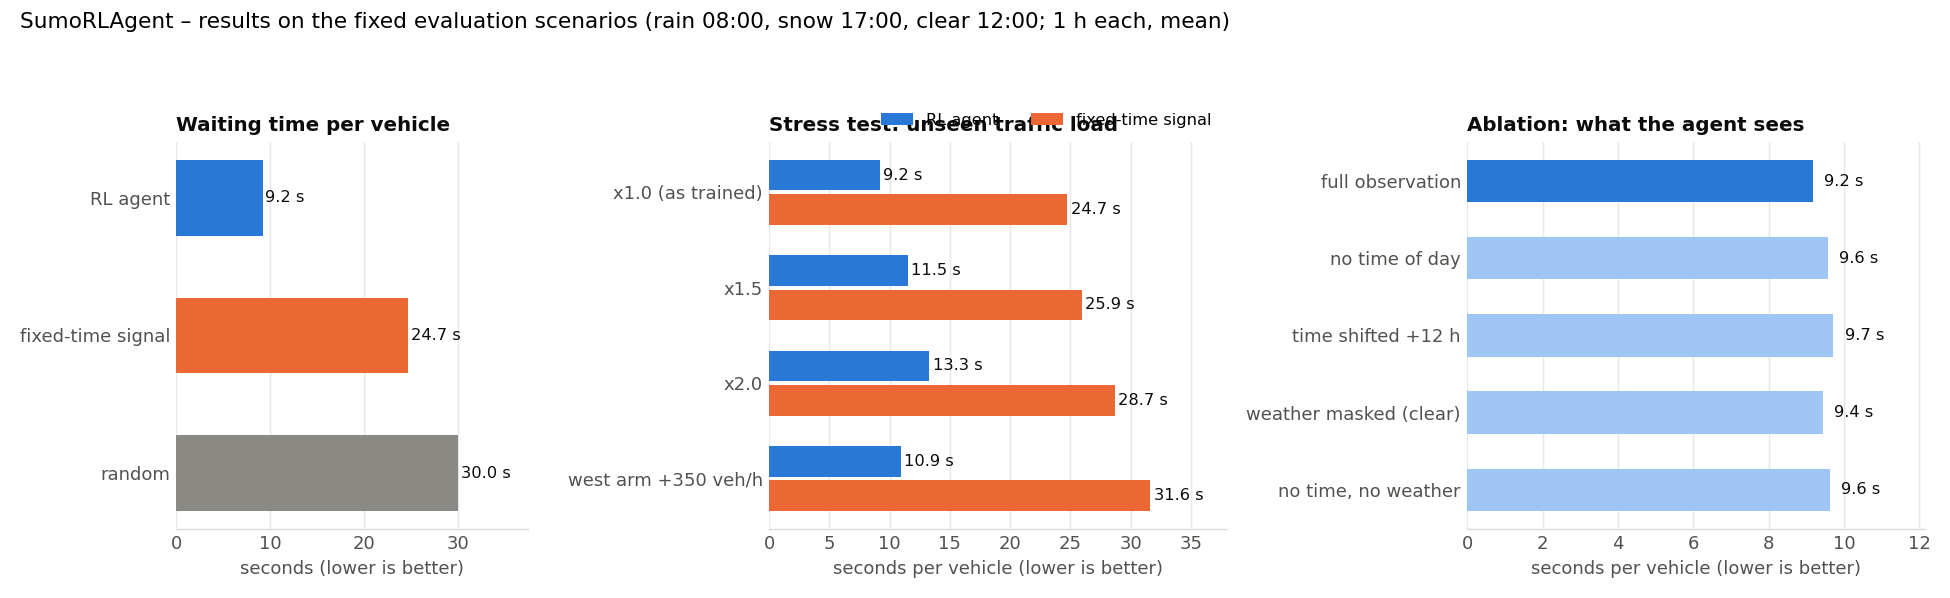
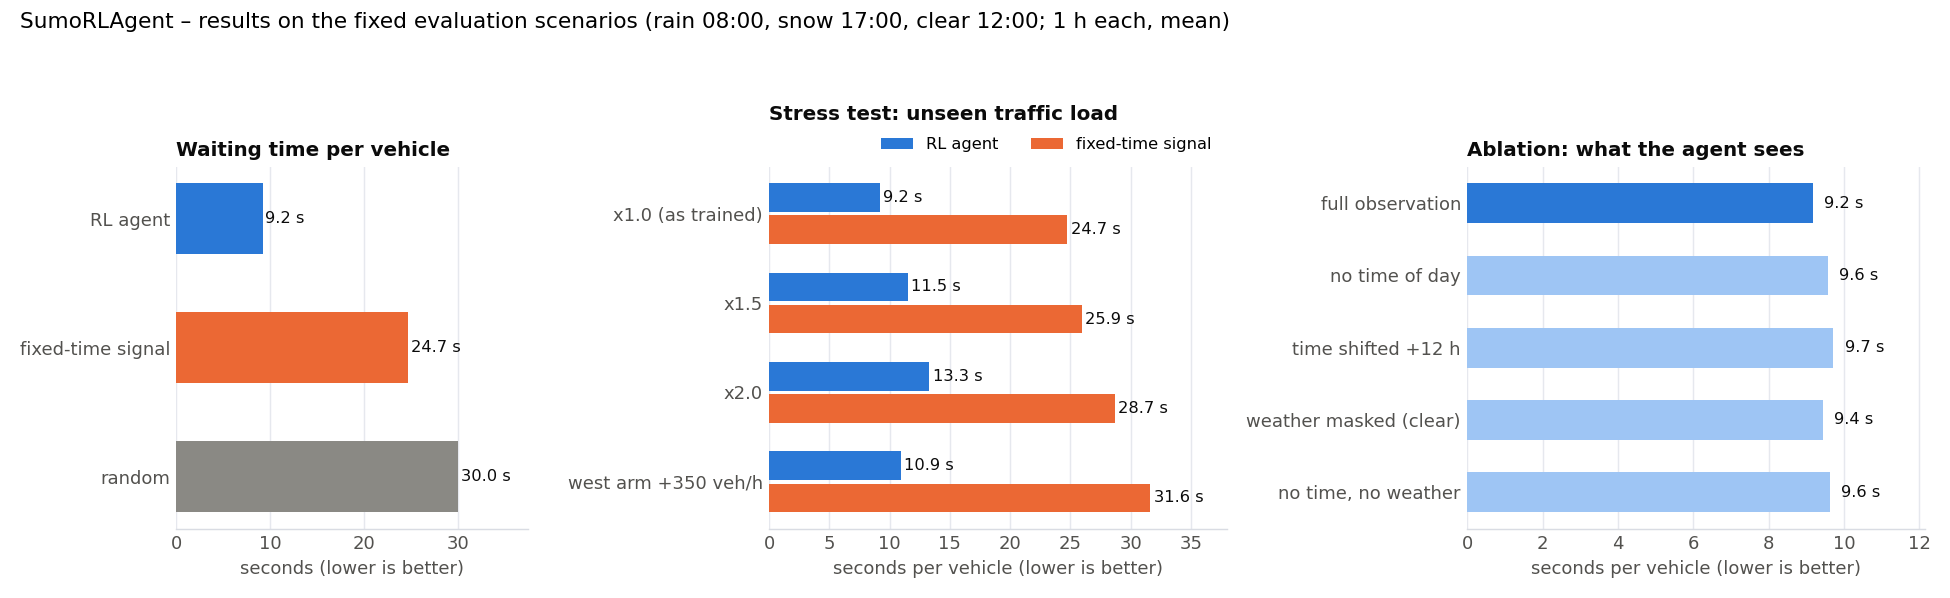
Move stress-test legend off the panel title
Claude-Session: https://claude.ai/code/session_01UEnKXESLuNM8vQDL4a2LCs

diff --git a/env/plot_results.py b/env/plot_results.py
@@ -32,8 +32,8 @@ def _load(path: Path) -> dict | None:
     return json.loads(path.read_text()) if path.is_file() else None
 
 
-def _style(ax, title: str, xlabel: str) -> None:
-    ax.set_title(title, loc="left", fontsize=11, fontweight="bold", color=INK)
+def _style(ax, title: str, xlabel: str, pad: float = 6.0) -> None:
+    ax.set_title(title, loc="left", fontsize=11, fontweight="bold", color=INK, pad=pad)
     ax.set_xlabel(xlabel, color=MUTED)
     ax.tick_params(colors=MUTED, length=0)
     for side in ("top", "right", "left"):
@@ -97,7 +97,7 @@ def main() -> None:
                              .replace("asym West +350/h", "west arm +350 veh/h") for v in variants])
         ax.set_xlim(0, max(f) * 1.2)
         ax.legend(frameon=False, loc="lower right", bbox_to_anchor=(1.0, 1.0), ncol=2, fontsize=9)
-    _style(ax, "Stress test: unseen traffic load", "seconds per vehicle (lower is better)")
+    _style(ax, "Stress test: unseen traffic load", "seconds per vehicle (lower is better)", pad=26)
 
     # 3) Ablation: Teile der Beobachtung ausblenden
     ax = axes[2]
